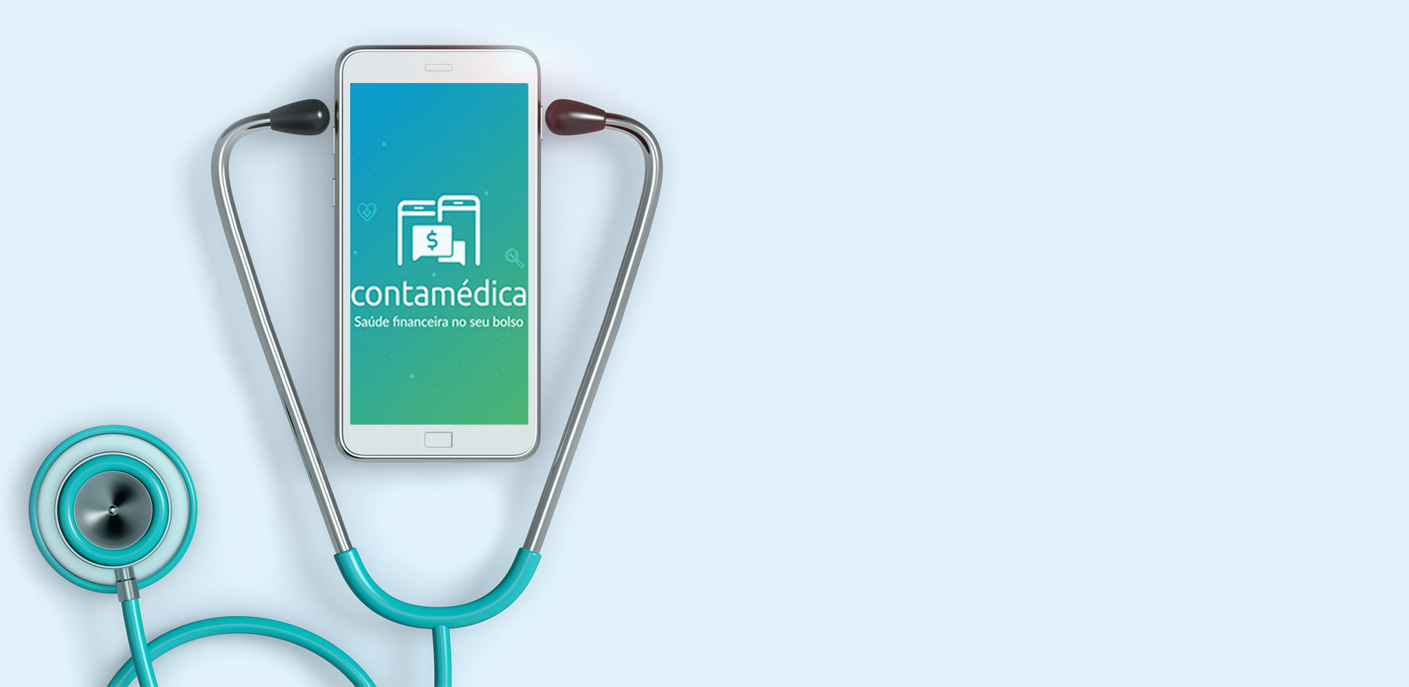
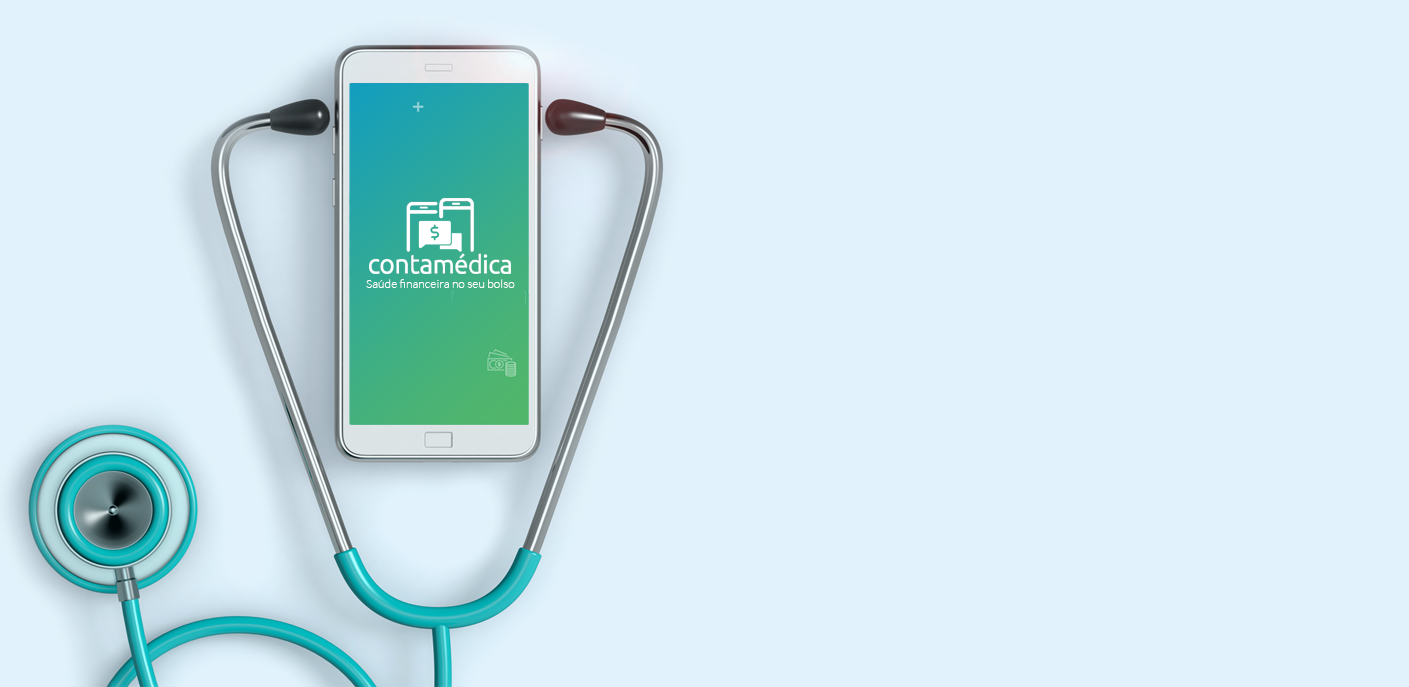
media querie, seo, style

Changed region(s): [[0.2498, 0.2751, 0.3747, 0.4891], [0.3435, 0.5197, 0.3747, 0.5502]]

diff --git a/index.html b/index.html
@@ -120,7 +120,7 @@
                 <div class="container">
                     <div class="row">
                         <div class="col-sm-6 col-md-7 phone mh">
-                            <img style="left: 30px;" src="img/app1/bg0.png" alt="">
+                            <img id="img0" style="left: 30px;" src="img/app1/bg0.png" alt="">
                         </div>
                         <div class="col-sm-6 col-md-5 mh">
                             <div class="caption-holder   ">
@@ -230,9 +230,11 @@
                                         </div>  
                             <div>
                                 <img class="person" src="img/team/p2.jpg" alt="">
-                                <h6>“Tinha receio de mudar para o Conta Médica por medo da transição dos meus recebimentos, além da contabilidade da minha empresa, porém ao ver a pro-atividade do time Conta Médica fiquei tranquilo e hoje recebo elogios dos meus Sócios por ter embarcado nesse produto.”
+                                <h6>“Tinha receio de mudar para o Conta Médica por medo da transição dos meus recebimentos, além da 
+                                    contabilidade da minha empresa, porém ao ver a pro-atividade do time Conta Médica fiquei tranquilo e hoje 
+                                    recebo elogios dos meus sócios por ter embarcado nesse produto.”
                                 </h6>
-                                <h3>Dr. Ticiano Adler Sindeaux</h3>
+                                <h3>Dr. Ticiano Sindeaux - CRM 13037/CE</h3>
                                 <h5 class="no-pad-top">Médico </h5>
                             </div>
                             <div>
@@ -252,58 +254,59 @@
             </div>
         </section>
                 <!-- Footer -->
-        <footer id="smart" class="dark1">
-            <div class="container">
-                <div class="row foot-space">
-                    <div class="col-md-4 col-sm-12">
-                        <img src="img/app1/logo2.png" width="180px" height="auto" alt="">
-                        <p>Siga nossas redes sociais
-                        </p>
-                        <div class="social">
-                            <a href="http://bit.ly/2vvjyTv"><i class="ion-social-facebook"></i></a>
-                            <a href="http://bit.ly/2Om1NNv"><i class="ion-social-youtube"></i></a>
-                            <a href="http://bit.ly/2vPfqNA"><i class="ion-social-instagram-outline"></i></a>
-                            <a href="http://bit.ly/2OiVcTZ"><i class="ion-social-linkedin-outline"></i></a>
-                            <a href="http://bit.ly/2oot2Mz"><i class="ion-social-whatsapp"></i></a>
-                            <p style="font-size: 16px"> Contato@contamedica.com.br <br> (85) 31825104 / (85) 991468277</p>
+                <footer id="smart" class="dark1">
+                        <div class="container">
+                            <div class="row foot-space">
+                                <div class="col-md-4 col-sm-12">
+                                    <img src="img/app1/logo2.png" width="180px" height="auto" alt="">
+                                    <p>Siga nossas redes sociais
+                                    </p>
+                                    <div class="social">
+                                        <a href="http://bit.ly/2vvjyTv"><i class="ion-social-facebook"></i></a>
+                                        <a href="http://bit.ly/2Om1NNv"><i class="ion-social-youtube"></i></a>
+                                        <a href="http://bit.ly/2vPfqNA"><i class="ion-social-instagram-outline"></i></a>
+                                        <a href="http://bit.ly/2OiVcTZ"><i class="ion-social-linkedin-outline"></i></a>
+                                        <a href="http://bit.ly/2ME63av"><i class="ion-social-whatsapp"></i></a>
+                                        <p style="font-size: 16px"> Contato@contamedica.com.br <br> (85) 31825104 / (85) 991468277</p>
+                                    </div>
+                                </div>
+                                <div class="col-md-7 col-md-offset-1">
+                                    <div class="row">
+                                        <div class="col-md-4 col-sm-4 col-xs-12 spacer">
+                                            <h5 class="foot-title">Menu</h5>
+                                            <ul>
+                                                <li><a href="#">Início</a></li>
+                                                <li><a href="#sobre1">Sobre</a></li>
+                                                <li><a href="http://bit.ly/2w6VENx">Blog</a></li>
+                                                <li><a href="http://bit.ly/2oot2Mz">Contato</a></li>
+                                               
+                                            </ul>
+                                        </div>
+                                        <div class="col-md-4 col-sm-4 col-xs-12 spacer">
+                                            <h5 class="foot-title">Baixe o nosso app</h5>
+                                            <ul>
+                                                <li><a href="https://apple.co/2Mho1DQ"><img src="img/app1/appstore.png" alt="" width="150px" height="auto"></a></li><br>
+                                                <li><a href="http://bit.ly/2vLs5Sr"><img src="img/app1/googleplay.png" alt="" width="150px" height="auto"></a></li><br>
+                                               
+                                            </ul>
+                                        </div>
+                                        <div class="col-md-4 col-sm-4 col-xs-12 spacer">
+                                            <iframe src="https://www.google.com/maps/embed?pb=!1m18!1m12!1m3!1d3981.2311529830117!2d-38.490101585241035!3d-3.7597931972646843!2m3!1f0!2f0!3f0!3m2!1i1024!2i768!4f13.1!3m3!1m2!1s0x7c748a635dcdfd3%3A0x1d44d6ef1b48da3d!2sR.+Jaime+Pinheiro%2C+21+-+Patriolino+Ribeiro%2C+Fortaleza+-+CE%2C+60810-250!5e0!3m2!1spt-BR!2sbr!4v1534275275629" width="300" height="auto" frameborder="0" style="border:0" allowfullscreen></iframe>
+                                            </ul>
+            
+                                        </div>
+                                    </div>
+                                </div>
+                                <div class="col-xs-12">
+                                    <hr>
+                                </div>
+                                <div class="col-xs-12 xs-center"> 
+                                       <p align="center" class="footer-text">Copyright &copy; Conta Médica. Todos os direitos reservados <br> </p>         
+                                </div>
+                            </div>
                         </div>
-                    </div>
-                    <div class="col-md-7 col-md-offset-1">
-                        <div class="row">
-                            <div class="col-md-4 col-sm-4 col-xs-12 spacer">
-                                <h5 class="foot-title">Menu</h5>
-                                <ul>
-                                    <li><a href="index.html">Início</a></li>
-                                    <li><a href="#sobre1">Sobre</a></li>
-                                    <li><a href="http://bit.ly/2w6VENx" target="blank">Blog</a></li>
-                                    <li><a href="http://bit.ly/2oot2Mz" target="blank">Contato</a></li>
-                                   
-                                </ul>
-                            </div>
-                            <div class="col-md-4 col-sm-4 col-xs-12 spacer">
-                                <h5 class="foot-title">Baixe o nosso app</h5>
-                                <ul>
-                                    <li><a href="https://apple.co/2Mho1DQ"><img src="img/app1/appstore.png" alt="" width="150px" height="auto"></a></li><br>
-                                    <li><a href="http://bit.ly/2vLs5Sr"><img src="img/app1/googleplay.png" alt="" width="150px" height="auto"></a></li><br>
-                                   
-                                </ul>
-                            </div>
-                            <div class="col-md-4 col-sm-4 col-xs-12 spacer">
-                                <iframe src="https://www.google.com/maps/embed?pb=!1m18!1m12!1m3!1d3981.2311529830117!2d-38.490101585241035!3d-3.7597931972646843!2m3!1f0!2f0!3f0!3m2!1i1024!2i768!4f13.1!3m3!1m2!1s0x7c748a635dcdfd3%3A0x1d44d6ef1b48da3d!2sR.+Jaime+Pinheiro%2C+21+-+Patriolino+Ribeiro%2C+Fortaleza+-+CE%2C+60810-250!5e0!3m2!1spt-BR!2sbr!4v1534275275629" width="300" height="auto" frameborder="0" style="border:0" allowfullscreen></iframe>
-                                </ul>
-
-                            </div>
-                        </div>
-                    </div>
-                    <div class="col-xs-12">
-                        <hr>
-                    </div>
-                    <div class="col-xs-12 xs-center"> 
-                           <p class="footer-text">Copyright &copy; Conta Médica. Todos os direitos reservados <br> </p>         
-                    </div>
-                </div>
-            </div>
-        </footer>
+                    </footer>
+            
 
             </div>
             <!-- end of web-in -->

diff --git a/css/theme3.css b/css/theme3.css
@@ -2176,7 +2176,7 @@ header#app1 .caption-holder {
   height: 100%;
 }
 header#app1 .caption {
-  bottom: 50px;
+  top:50px;
   padding: 50px 20px;
   display: table-cell;
   vertical-align: middle;
@@ -2212,10 +2212,10 @@ header#app1 .btn:hover span i {
 }
 header#app1 .phone img {
   position: relative;
-  bottom: -130px;
+  bottom: -110px;
   right: 120px;
 }
-@media (max-width: 991px) {
+@media (max-width: 767px) {
   header#app1 .phone img {
     display: none;
     bottom: -120px;
@@ -2224,15 +2224,14 @@ header#app1 .phone img {
    
   }
 }
-@media (min-width: 767px) {
+@media (max-width: 991px) {
   header#app1 .phone img {
-    display: none;
-    bottom: 0;
-    margin: 100px auto 30px;
-    display: block;
+    bottom: -120px;
+    max-width: 390px;
+    height: auto;
+   
   }
 }
-
 header#app2 {
   width: 100%;
   height: 700px;
@@ -4791,7 +4790,6 @@ footer#smart.dark1 p,
 footer#smart.dark2 p,
 footer#smart.dark3 p {
   color: #E9ECEF;
-  text-align: center;
 }
 footer#smart.dark1 li a,
 footer#smart.dark2 li a,
